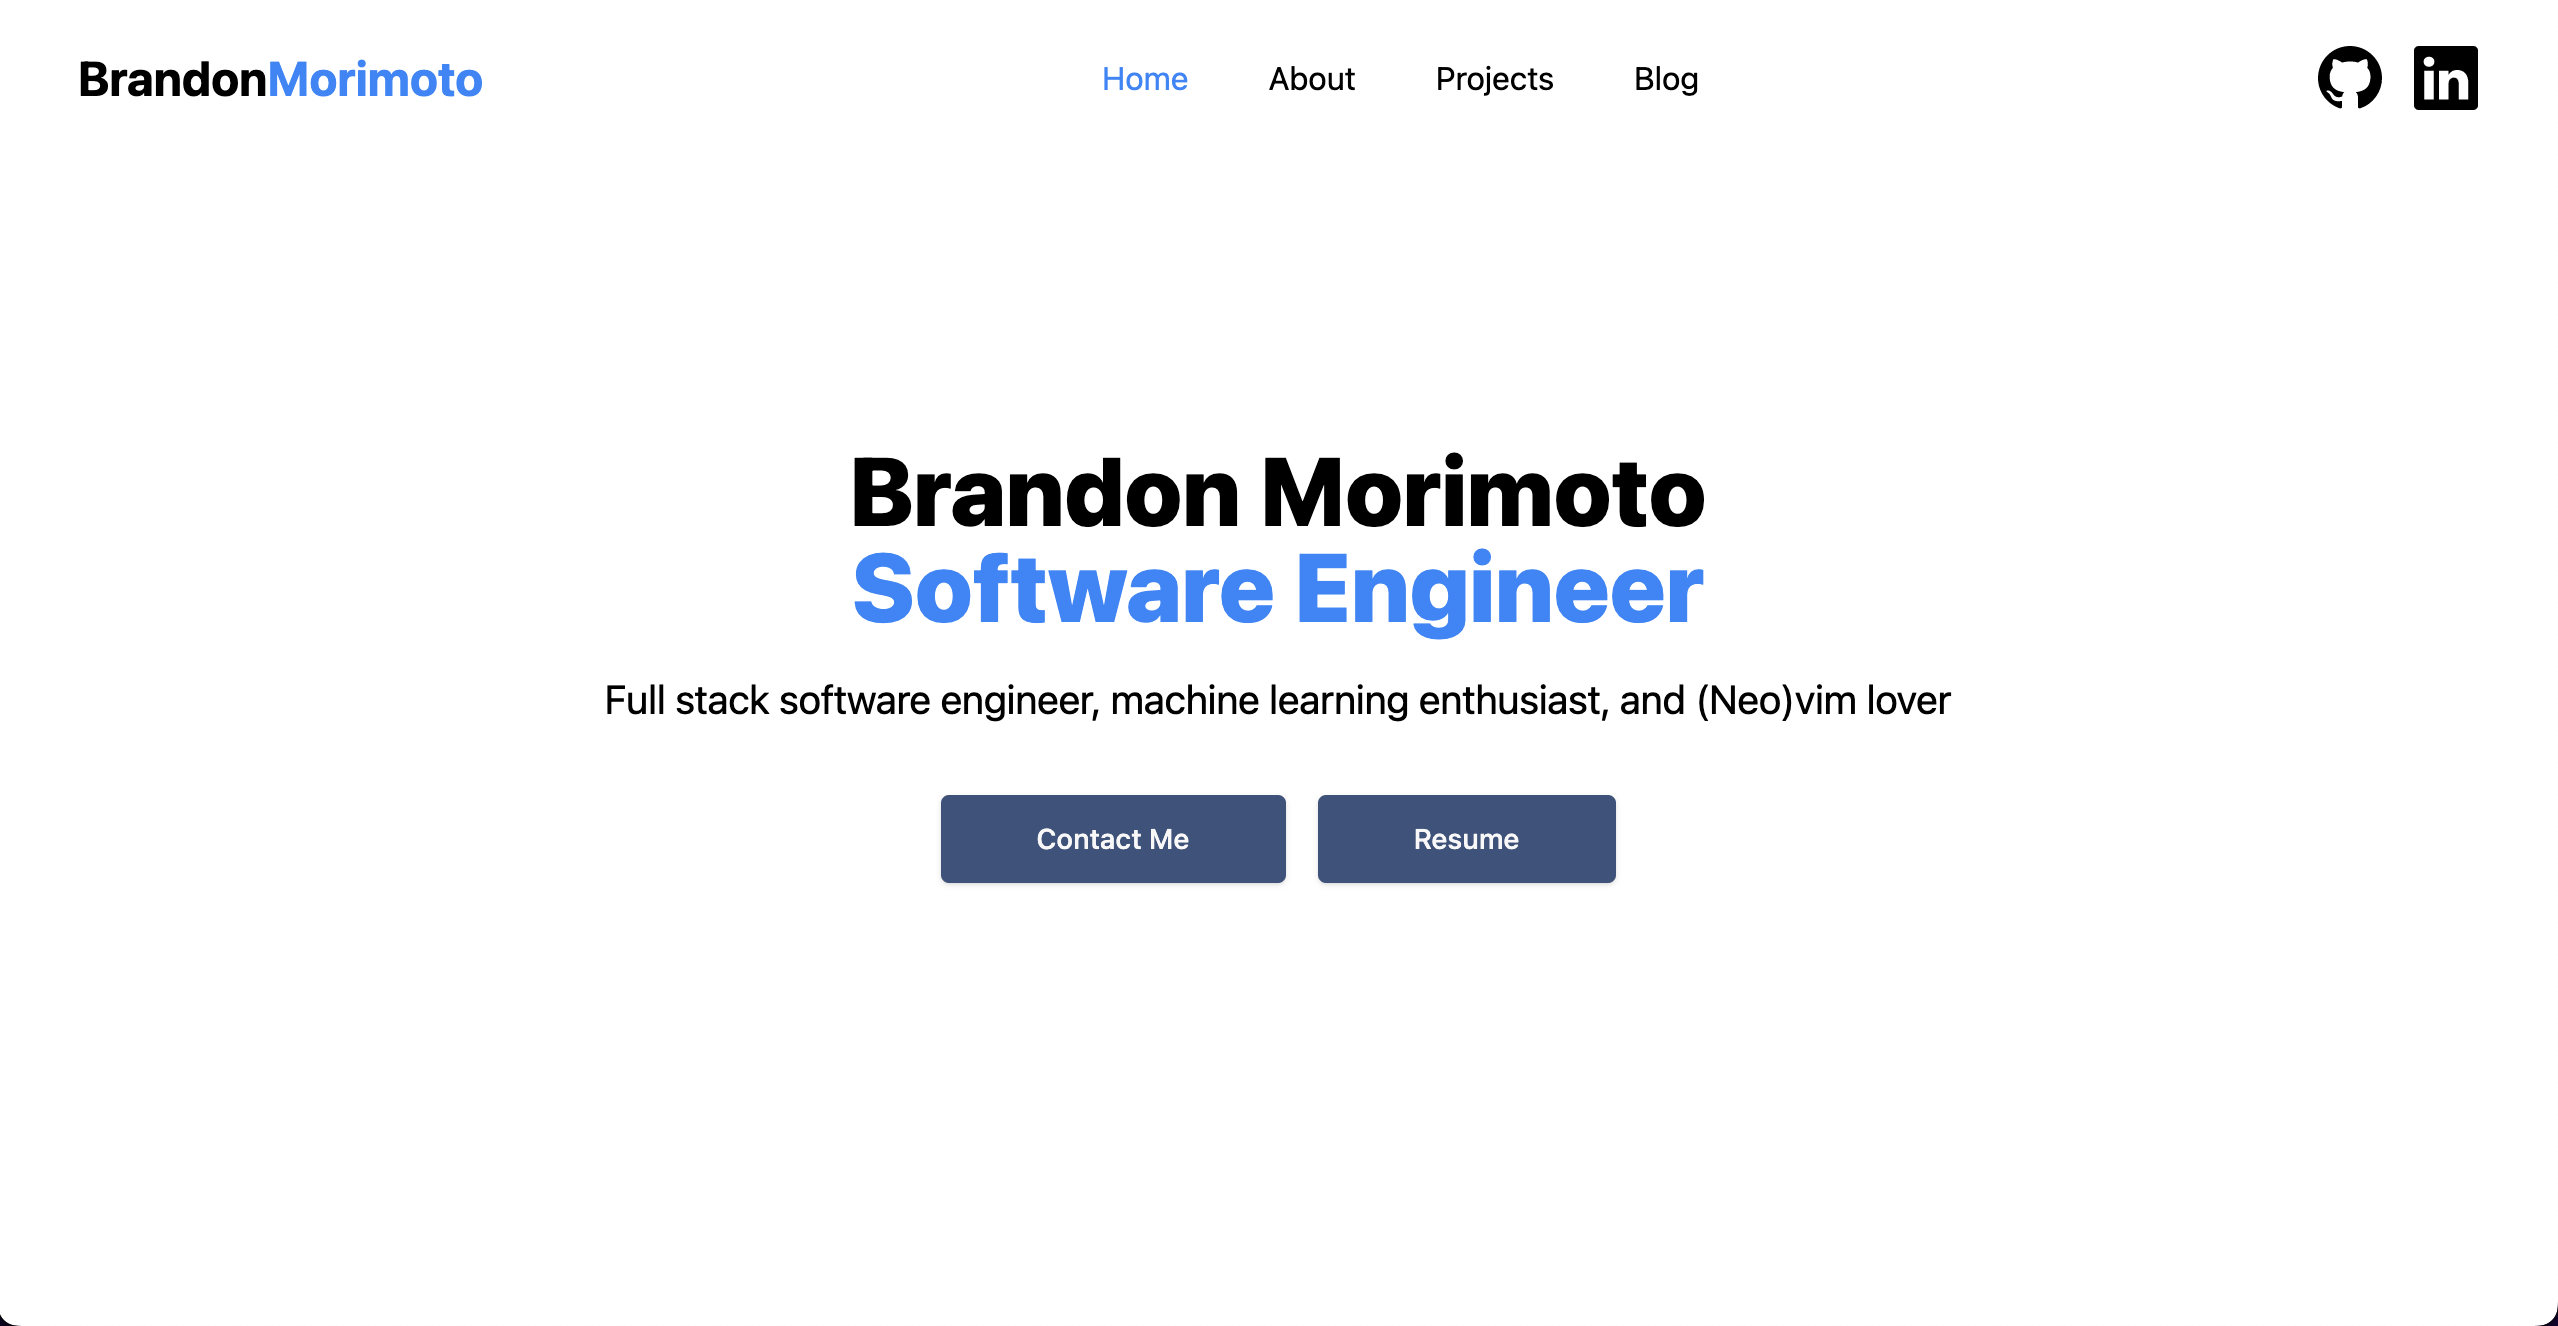
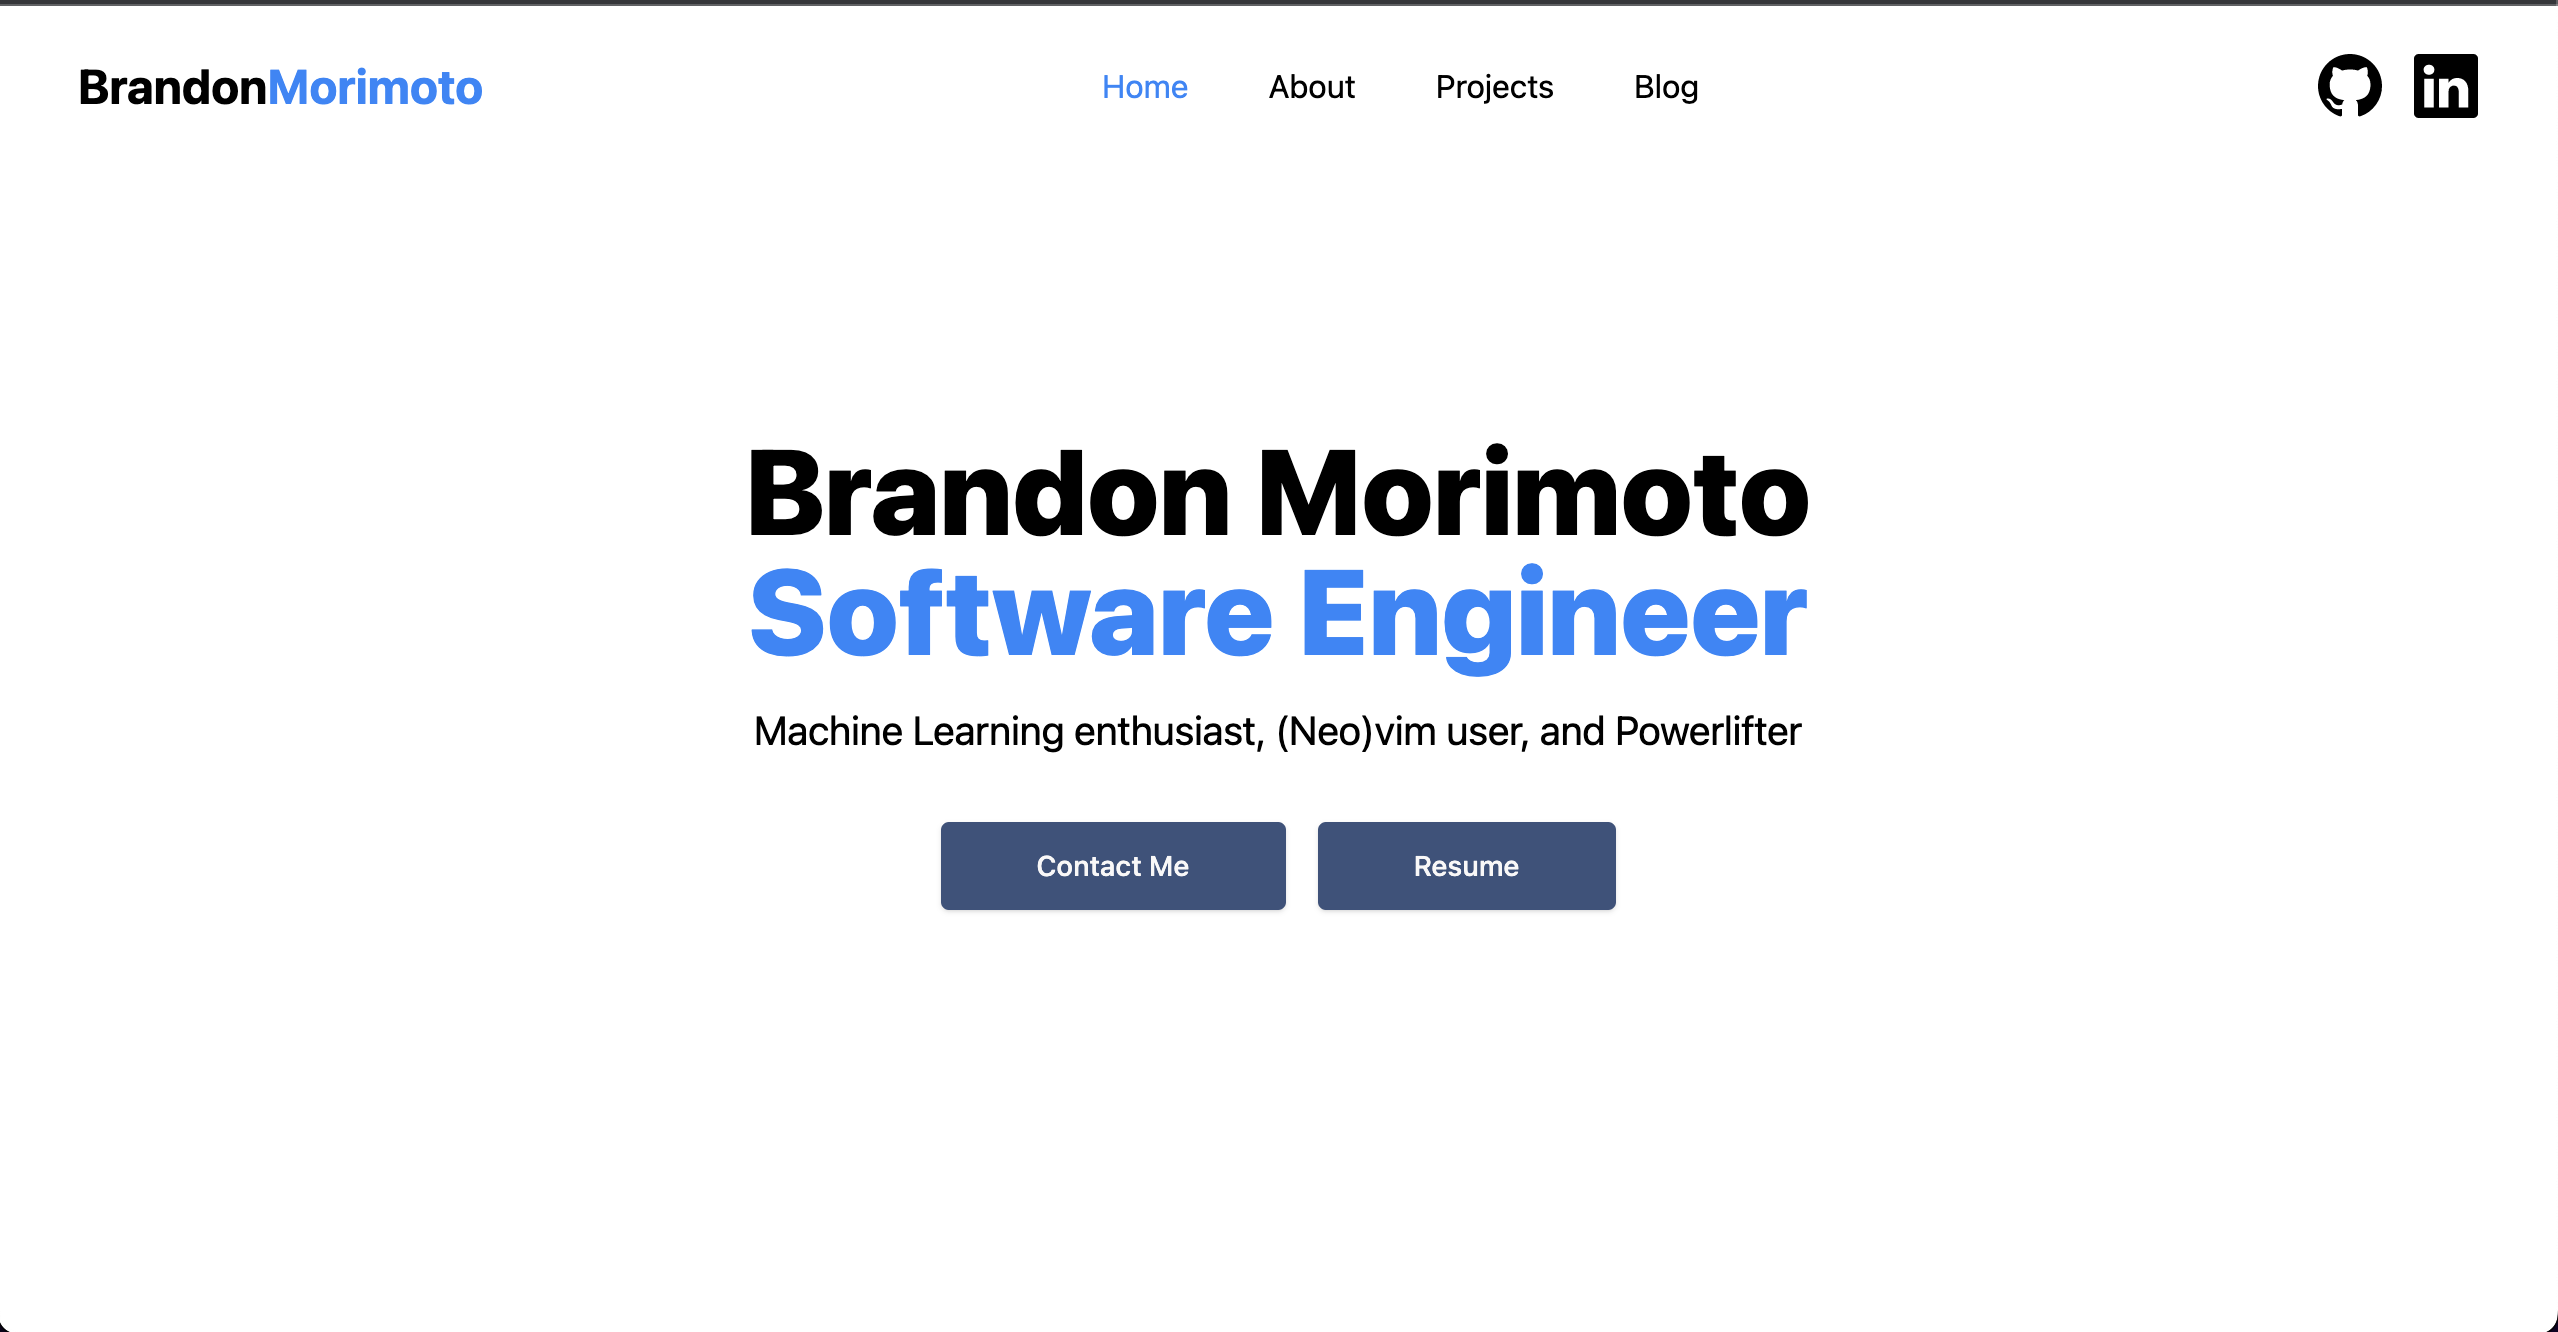
resume and image updates

diff --git a/components/Home.js b/components/Home.js
@@ -20,7 +20,7 @@ const Home = () => {
                 },
             }}
         >
-            <div className='flex px-4 py-32 mx-auto h-screen items-center'>
+            <div className='flex px-4 md:py-32 mx-auto h-screen items-center'>
                 <div className='text-center mx-auto'>
                     <h1 className='text-4xl text-black font-extrabold md:text-6xl'>
                         Brandon Morimoto
